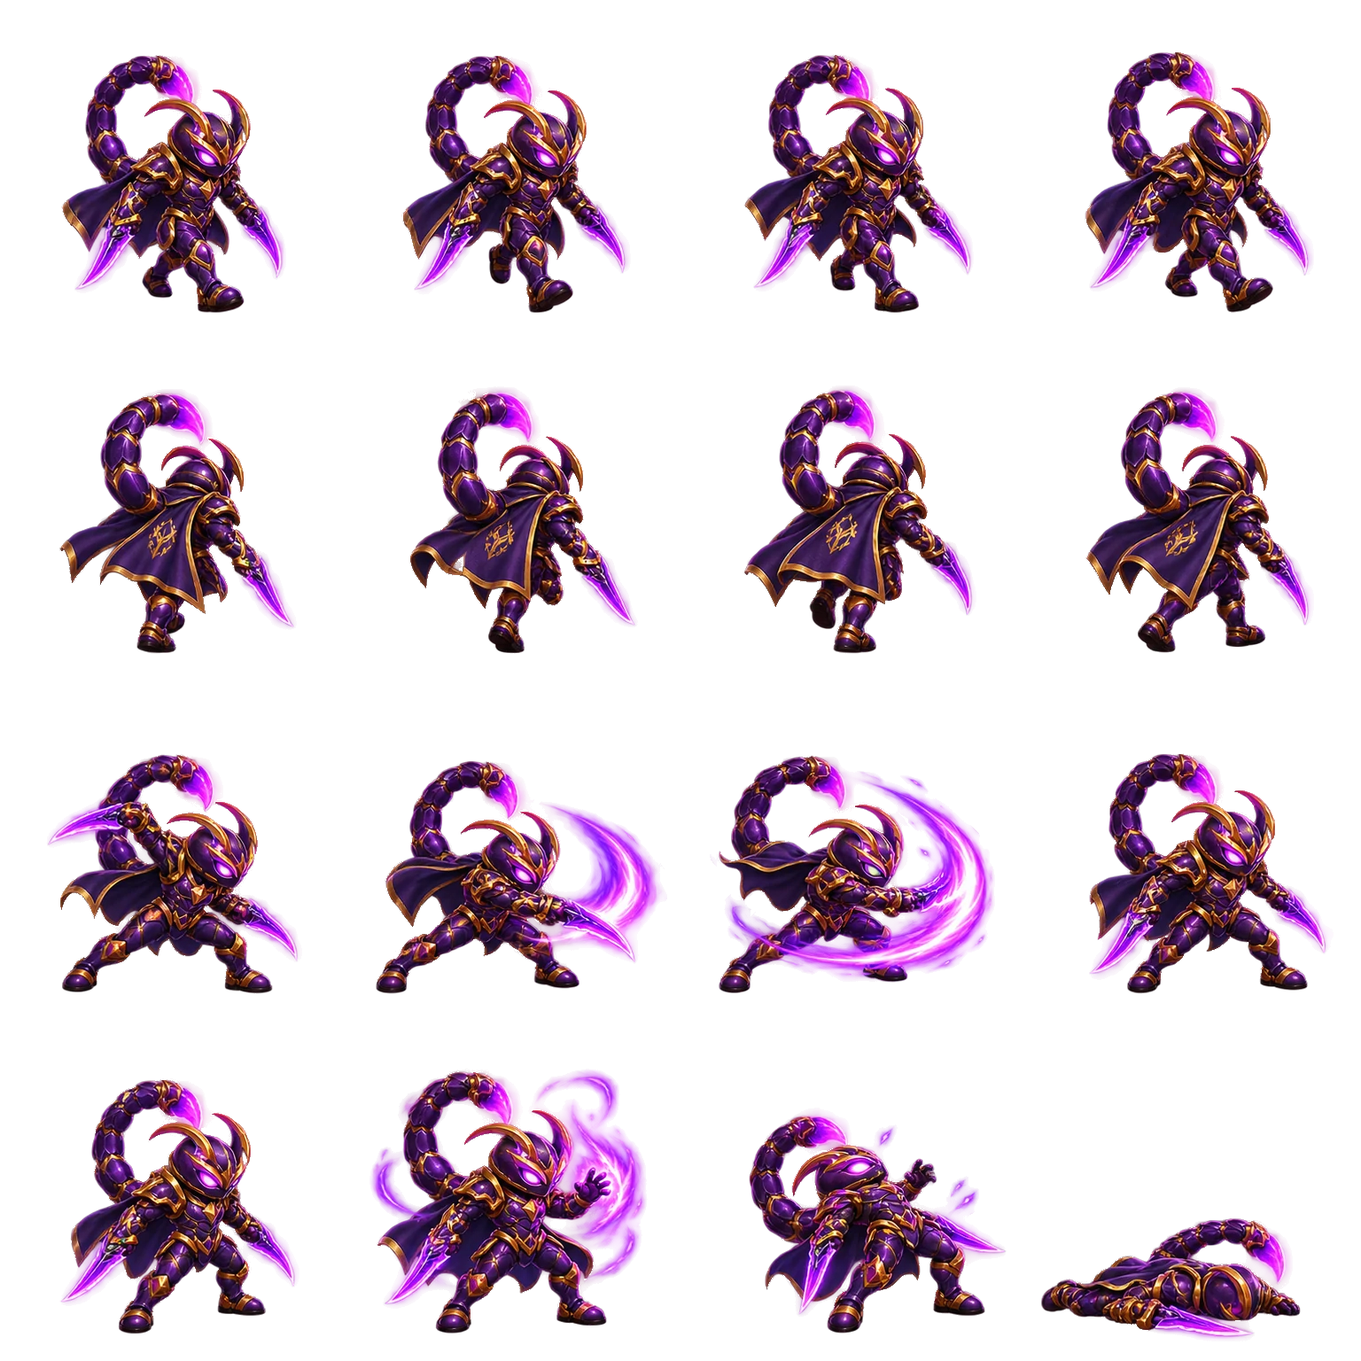
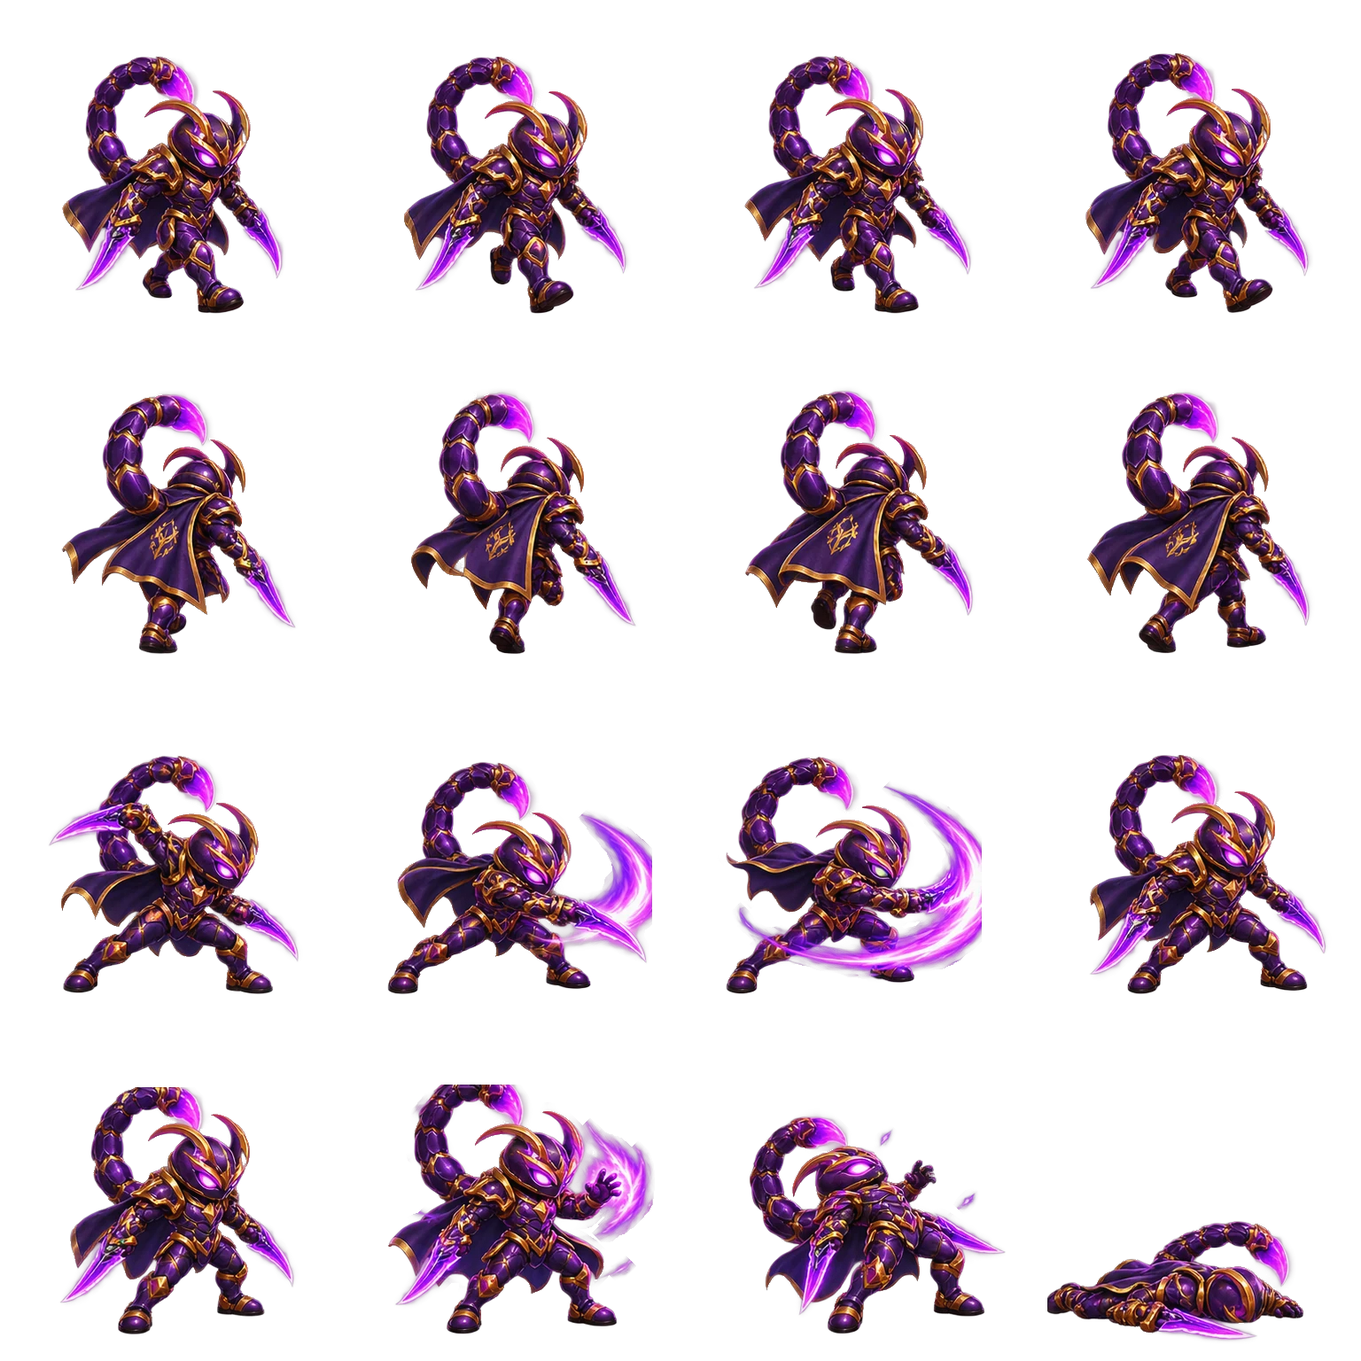
Make Dragonfly and Cricket playable: all four hero classes selectable
- Packed sheets web/heroes/sword-dragonfly.webp and sword-cricket.webp from the
  user's generated art; packer now cuts per source cell with body-centred anchors
  and optional manual trims (cricket frame 14)
- Dragonfly: ranged archer basic attack (340) and six wind/lightning arrow skills
- Cricket: six hammer/sound-wave skills, each cast shows its own painted skill pose
- Class frame mapping, save validation, roster text, tests and asset checks

Claude-Session: https://claude.ai/code/session_01ENEEn6QVRibkZji2H4JnwQ

diff --git a/web/skills.js b/web/skills.js
@@ -32,7 +32,24 @@ export const SCORPION_SKILLS=[
 {id:'d5',name:'ลูกพิษระเบิดสายฟ้า',level:40,form:'bolt',element:'lightning',mods:['force','pierce']},
 {id:'d6',name:'หางยักษ์ฟาดพสุธา',level:55,form:'field',element:'poison',mods:['wide','force']}
 ];
-function classSkills(s){if(s.hero==='demon-scorpion')return [...SCORPION_SKILLS,...SCHOOL.filter(r=>r.sect==='demon'&&Number(r.id.slice(1))>=7)];return s.hero==='sword-cockro'?[...COCKRO_SKILLS,...SCHOOL.filter(r=>r.sect==='sword'&&Number(r.id.slice(1))>=7)]:SCHOOL.filter(r=>r.sect===(s.hero.startsWith('sword')?'sword':'demon'));}
+// Dragonfly: ranged archer (wind / lightning). Cricket: hammer and sound waves (wind / lightning, gold).
+export const DRAGONFLY_SKILLS=[
+{id:'s1',name:'ศรแสงพุ่งทะลวง',level:1,form:'bolt',element:'lightning',mods:['pierce'],combat:{range:520,radius:0,mp:9,cd:2.6,power:2.1}},
+{id:'s2',name:'ศรพัดห้าดอก',level:5,form:'wave',element:'wind',mods:['wide'],combat:{range:420,radius:170,mp:14,cd:4.5,power:1.7}},
+{id:'s3',name:'พายุปีกแมลงปอ',level:12,form:'circle',element:'wind',mods:['wide'],combat:{range:190,radius:190,mp:20,cd:7,power:1.6}},
+{id:'s4',name:'ฝนศรดวงดาว',level:25,form:'field',element:'lightning',mods:['wide'],combat:{range:460,radius:190,mp:26,cd:10,power:.75}},
+{id:'s5',name:'ศรสายฟ้าเจาะฟ้า',level:40,form:'bolt',element:'lightning',mods:['pierce','force']},
+{id:'s6',name:'ปีกแสงพิพากษา',level:55,form:'wave',element:'lightning',mods:['wide','force']}
+];
+export const CRICKET_SKILLS=[
+{id:'s1',name:'ค้อนทุบแผ่นดินแยก',level:1,form:'wave',element:'wind',mods:['wide'],combat:{range:400,radius:150,mp:10,cd:3.4,power:2}},
+{id:'s2',name:'วงคลื่นเสียงจิ้งหรีด',level:5,form:'circle',element:'lightning',mods:['wide'],combat:{range:190,radius:190,mp:14,cd:5,power:1.8}},
+{id:'s3',name:'กระโดดกระแทกพสุธา',level:12,form:'dash',element:'wind',mods:['wide','force'],combat:{range:260,radius:70,mp:18,cd:7,power:2}},
+{id:'s4',name:'สนามคลื่นสั่นสะเทือน',level:25,form:'field',element:'lightning',mods:['wide'],combat:{range:380,radius:190,mp:26,cd:10,power:.8}},
+{id:'s5',name:'ค้อนพายุหมุน',level:40,form:'circle',element:'wind',mods:['wide','force']},
+{id:'s6',name:'โดมคลื่นเสียงทองคำ',level:55,form:'field',element:'lightning',mods:['wide','force'],combat:{range:200,radius:230,mp:40,cd:14,power:.9}}
+];
+function classSkills(s){if(s.hero==='sword-dragonfly')return [...DRAGONFLY_SKILLS,...SCHOOL.filter(r=>r.sect==='sword'&&Number(r.id.slice(1))>=7)];if(s.hero==='sword-cricket')return [...CRICKET_SKILLS,...SCHOOL.filter(r=>r.sect==='sword'&&Number(r.id.slice(1))>=7)];if(s.hero==='demon-scorpion')return [...SCORPION_SKILLS,...SCHOOL.filter(r=>r.sect==='demon'&&Number(r.id.slice(1))>=7)];return s.hero==='sword-cockro'?[...COCKRO_SKILLS,...SCHOOL.filter(r=>r.sect==='sword'&&Number(r.id.slice(1))>=7)]:SCHOOL.filter(r=>r.sect===(s.hero.startsWith('sword')?'sword':'demon'));}
 export function normalizeSkills(s,v={}){const sect=s.hero.startsWith('sword')?'sword':'demon';s.recipes=Array.isArray(v.recipes)?v.recipes.slice(0,10).filter(r=>r&&FORMS[r.form]&&ELEMENTS[r.element]&&Array.isArray(r.mods)&&r.mods.length<=2&&r.mods.every(m=>MODS[m]&&m!=='none')).map((r,i)=>({...r,id:'custom'+i,name:String(r.name||'วิชาไร้นาม').slice(0,32),level:r.mods.length>1?120:60})):[];const available=[...classSkills(s),...s.recipes].filter(r=>r.level<=s.level);const used=new Set();s.equipped=Array.isArray(v.equipped)?v.equipped.slice(0,3).map(id=>{if(used.has(id)||!available.some(r=>r.id===id))return null;used.add(id);return id;}):[];if(!s.equipped.some(Boolean))s.equipped=[available[0].id];s.materials={};for(const k of ['ink','core',...Object.keys(ELEMENTS)])s.materials[k]=Math.min(99999,Math.max(0,Math.floor(Number(v.materials?.[k])||0)));}
 export function knownSkills(s){return [...classSkills(s),...s.recipes];}
 export function craft(s,r){if(s.level<60)return 'ต้องถึงเลเวล 60';if(s.recipes.length>=10)return 'บันทึกได้สูงสุด 10 วิชา';if(!r||!FORMS[r.form]||!ELEMENTS[r.element]||!Array.isArray(r.mods)||new Set(r.mods).size!==r.mods.length||r.mods.some(m=>!MODS[m]||m==='none'))return 'สูตรไม่ถูกต้อง';if(r.mods.length>(s.level>=120?2:1))return 'สองคุณสมบัติต้องเลเวล 120';const advanced=r.mods.length===2,cost=advanced?12000:3000;if(s.gold<cost||s.materials.ink<1||s.materials[r.element]<3||(advanced&&s.materials.core<2))return 'เงินหรือวัตถุดิบไม่พอ';s.gold-=cost;s.materials.ink--;s.materials[r.element]-=3;if(advanced)s.materials.core-=2;s.recipes.push({id:'custom'+s.recipes.length,name:String(r.name||'วิชาไร้นาม').trim().slice(0,32)||'วิชาไร้นาม',form:r.form,element:r.element,mods:r.mods,level:advanced?120:60});return null;}

diff --git a/web/hero-animation.js b/web/hero-animation.js
@@ -3,7 +3,19 @@ export const HERO_IDS=['sword-male','sword-female','demon-male','demon-female'];
 export const WALK_DISTANCE=112;
 export const CELL=256;
 // New hero classes packed by tools/pack-class-sheet.py (same frame order as the Cockro combat sheet).
-export const CLASS_SHEETS=['demon-scorpion'];
+export const CLASS_SHEETS=['demon-scorpion','sword-dragonfly','sword-cricket'];
+// The cricket sheet was painted with one pose per skill: row 3 and row 4 hold skill poses, idle and hurt.
+const CLASS_FRAMES={'sword-cricket':{idle:14,attack:[14,12,8,14],hurt:15,dead:15,skill:{s1:8,s2:9,s3:10,s4:11,s5:12,s6:13},fallback:13,deadTilt:true}};
+export function classFrame(hero,actor={}){
+ const m=CLASS_FRAMES[hero];if(!m)return cockroFrame(actor);
+ const t=Math.max(0,actor.animTime||0),u=t/(actor.animDuration||.58);
+ if(actor.dead||actor.anim==='dead')return m.dead;
+ if(actor.anim==='hurt')return m.hurt;
+ if(actor.anim==='skill')return m.skill[actor.castId]??m.fallback;
+ if(actor.anim==='attack')return m.attack[u<.25?0:u<.5?1:u<.76?2:3];
+ if(actor.anim==='walk')return (actor.back?4:0)+Math.floor(((actor.walkDistance||0)%112)/28);
+ return m.idle;
+}
 export function heroFrame(actor={}){
  const back=!!actor.back,flip=(actor.face||1)<0;
  const t=Math.max(0,Number.isFinite(actor.animTime)?actor.animTime:0);
@@ -31,9 +43,10 @@ export function drawHero(ctx,images,hero,actor,x,y,size){
  if(CLASS_SHEETS.includes(hero)){
   // Normalised 4x4 class sheets: every frame is foot-anchored at (192,352) inside a 384px cell.
   const im=images.get(`heroes/${hero}.webp`);if(!im||!Number.isFinite(size)||size<=0)return;
-  const frame=cockroFrame(actor),c=im.width/4,k=c/384,unit=size/314;
+  const frame=classFrame(hero,actor),c=im.width/4,unit=size/314;
   ctx.save();ctx.translate(x,y);ctx.scale((actor.face||1)<0?-1:1,1);
-  ctx.drawImage(im,(frame%4)*c,Math.floor(frame/4)*c,c,c,-192*unit,-352*unit,384*unit,384*unit);
+  if((actor.dead||actor.anim==='dead')&&CLASS_FRAMES[hero]?.deadTilt){ctx.translate(0,-18*unit);ctx.rotate(-1.25);ctx.globalAlpha*=.92;}
+  ctx.drawImage(im,(frame%4)*c,Math.floor(frame/4)*c,c,c,-c/2*unit,-(c-32)*unit,c*unit,c*unit);
   ctx.restore();return {sheet:hero,frame};
  }
  if(!HERO_IDS.includes(hero)||!Number.isFinite(size)||size<=0)return;

diff --git a/web/core.js b/web/core.js
@@ -10,7 +10,7 @@ export function buyPotion(s){if(s.gold<50)return false;s.gold-=50;s.potions++;re
 export function upgradeCost(s){return 100*(s.upgrade+1)**2;}
 export function upgrade(s){const cost=upgradeCost(s);if(s.upgrade>=20||s.gold<cost)return false;s.gold-=cost;s.upgrade++;return true;}
 export function unlocked(s,z){return z===0;}
-export function validSave(v){if(!v||v.version!==VERSION||!['sword-male','sword-female','demon-male','demon-female','sword-cockro','demon-scorpion'].includes(v.hero))return null;const s=fresh(v.hero);for(const [k,max]of Object.entries({level:210,xp:1e8,gold:1e10,potions:99999,stones:1e7,upgrade:20,zone:9,kills:1e9})){if(!Number.isFinite(v[k]))return null;s[k]=Math.max(k==='level'?1:0,Math.min(max,Math.floor(v[k])));}s.seen=Array.isArray(v.seen)?[...new Set(v.seen.filter(isKnownMonster))]:[];s.bosses=Array.isArray(v.bosses)?[...new Set(v.bosses.filter(isKnownBoss))]:[];s.sound=v.sound!==false;s.quality=['auto','low'].includes(v.quality)?v.quality:'auto';if(!unlocked(s,s.zone))s.zone=0;normalizeSkills(s,v);normalizeProgress(s,v);return s;}
+export function validSave(v){if(!v||v.version!==VERSION||!['sword-male','sword-female','demon-male','demon-female','sword-cockro','demon-scorpion','sword-dragonfly','sword-cricket'].includes(v.hero))return null;const s=fresh(v.hero);for(const [k,max]of Object.entries({level:210,xp:1e8,gold:1e10,potions:99999,stones:1e7,upgrade:20,zone:9,kills:1e9})){if(!Number.isFinite(v[k]))return null;s[k]=Math.max(k==='level'?1:0,Math.min(max,Math.floor(v[k])));}s.seen=Array.isArray(v.seen)?[...new Set(v.seen.filter(isKnownMonster))]:[];s.bosses=Array.isArray(v.bosses)?[...new Set(v.bosses.filter(isKnownBoss))]:[];s.sound=v.sound!==false;s.quality=['auto','low'].includes(v.quality)?v.quality:'auto';if(!unlocked(s,s.zone))s.zone=0;normalizeSkills(s,v);normalizeProgress(s,v);return s;}
 export function inCone(px,py,x,y,angle,range,arc){const dx=px-x,dy=py-y;return Math.hypot(dx,dy)<=range&&Math.abs(Math.atan2(Math.sin(Math.atan2(dy,dx)-angle),Math.cos(Math.atan2(dy,dx)-angle)))<=arc/2;}
 
 

diff --git a/tests/hero-classes.test.js b/tests/hero-classes.test.js
@@ -2,7 +2,7 @@ import test from 'node:test';
 import assert from 'node:assert/strict';
 import fs from 'node:fs';
 import {fresh,validSave} from '../web/core.js';
-import {knownSkills,compileSkill,SCORPION_SKILLS} from '../web/skills.js';
+import {knownSkills,compileSkill,SCORPION_SKILLS,DRAGONFLY_SKILLS,CRICKET_SKILLS} from '../web/skills.js';
 import {drawHero,CLASS_SHEETS} from '../web/hero-animation.js';
 test('Scorpion Man is a full class: six poison skills unlocked by level, save round trip',()=>{
  const s=fresh('demon-scorpion');assert.equal(validSave(JSON.parse(JSON.stringify(s))).hero,'demon-scorpion');
@@ -15,5 +15,10 @@ test('class sheet exists and draws one foot-anchored frame per state',()=>{
  for(const id of CLASS_SHEETS){assert(fs.existsSync(new URL(`../web/heroes/${id}.webp`,import.meta.url)));
   const calls=[];const ctx=new Proxy({},{get:(_,k)=>k==='drawImage'?(...a)=>calls.push(a):()=>{}});const im={width:1536,height:1536};
   const frames=new Set();for(const actor of [{anim:'idle'},{anim:'walk',walkDistance:30},{anim:'walk',back:true},{anim:'attack',animTime:.3},{anim:'skill'},{anim:'hurt'},{anim:'dead'}]){const r=drawHero(ctx,new Map([[`heroes/${id}.webp`,im]]),id,actor,0,0,110);frames.add(r.frame);}
-  assert.equal(frames.size,7);assert.equal(calls.length,7);}
+  assert(frames.size>=6,id);assert.equal(calls.length,7);}
+});
+test('Dragonfly and Cricket have six skills each and a skill-specific cricket pose',async()=>{
+ for(const [id,list] of [['sword-dragonfly',DRAGONFLY_SKILLS],['sword-cricket',CRICKET_SKILLS]]){const s=fresh(id);assert.equal(validSave(JSON.parse(JSON.stringify(s))).hero,id);assert.deepEqual(knownSkills(s).slice(0,6).map(r=>r.name),list.map(r=>r.name));for(const r of list)assert(compileSkill(r),r.name);}
+ const {classFrame}=await import('../web/hero-animation.js');
+ assert.equal(classFrame('sword-cricket',{anim:'skill',castId:'s6'}),13);assert.equal(classFrame('sword-cricket',{anim:'idle'}),14);assert.equal(classFrame('sword-dragonfly',{anim:'idle'}),12);
 });

diff --git a/tests/hero-ui.test.js b/tests/hero-ui.test.js
@@ -2,6 +2,6 @@ import test from 'node:test';
 import assert from 'node:assert/strict';
 import {HERO_CLASSES,heroIdentity,uiArt} from '../web/hero-ui.js';
 import {fresh,validSave} from '../web/core.js';
-test('four requested heroes and only finished combat prototype selectable',()=>{assert.deepEqual(HERO_CLASSES.map(h=>h.name),['แมงสาบแมน','แมงป่องแมน','แมลงปอเกิล','จิ้งหรีดแมน']);assert.deepEqual(HERO_CLASSES.filter(h=>h.playable).map(h=>h.id),['sword-cockro','demon-scorpion']);});
-test('legacy progression survives and has a readable identity',()=>{for(const id of ['sword-male','demon-female','sword-cockro','demon-scorpion']){const save=fresh(id);save.gold=12345;const restored=validSave(save);assert.equal(restored.gold,12345);assert.equal(restored.hero,id);assert.ok(heroIdentity(id).name);}});
+test('four requested heroes and only finished combat prototype selectable',()=>{assert.deepEqual(HERO_CLASSES.map(h=>h.name),['แมงสาบแมน','แมงป่องแมน','แมลงปอเกิล','จิ้งหรีดแมน']);assert.deepEqual(HERO_CLASSES.filter(h=>h.playable).map(h=>h.id),['sword-cockro','demon-scorpion','sword-dragonfly','sword-cricket']);});
+test('legacy progression survives and has a readable identity',()=>{for(const id of ['sword-male','demon-female','sword-cockro','demon-scorpion','sword-dragonfly','sword-cricket']){const save=fresh(id);save.gold=12345;const restored=validSave(save);assert.equal(restored.gold,12345);assert.equal(restored.hero,id);assert.ok(heroIdentity(id).name);}});
 test('atlas indices are bounded and decorative art is hidden from screen readers',()=>{for(let i=0;i<16;i++)assert.match(uiArt(i),/aria-hidden="true"/);assert.throws(()=>uiArt(16),RangeError);});

diff --git a/web/hero-ui.js b/web/hero-ui.js
@@ -2,8 +2,8 @@
 export const HERO_CLASSES=Object.freeze([
  {id:'sword-cockro',name:'แมงสาบแมน',icon:12,color:'#ee654f',playable:true,description:'ฮีโร่ดาบพลังงาน • แนวหน้าปกป้องเมือง'},
  {id:'demon-scorpion',name:'แมงป่องแมน',icon:13,color:'#b78aff',playable:true,description:'นักฆ่าพิษ • มีดคู่และหางแมงป่อง สกิลพิษวงกว้าง'},
- {id:'dragonfly',name:'แมลงปอเกิล',icon:14,color:'#5eddeb',playable:false,description:'พลังแมลงปอ • แนวคิดอาชีพใหม่'},
- {id:'cricket',name:'จิ้งหรีดแมน',icon:15,color:'#a2df68',playable:false,description:'พลังจิ้งหรีด • แนวคิดอาชีพใหม่'}
+ {id:'sword-dragonfly',name:'แมลงปอเกิล',icon:14,color:'#5eddeb',playable:true,description:'นักธนูปีกแสง • โจมตีระยะไกล ศรลมและสายฟ้า'},
+ {id:'sword-cricket',name:'จิ้งหรีดแมน',icon:15,color:'#a2df68',playable:true,description:'นักรบค้อนคลื่นเสียง • ทนทาน ตีวงกว้าง'}
 ]);
 export function heroIdentity(id){return HERO_CLASSES.find(h=>h.id===id)||{name:'ฮีโร่รุ่นเดิม',icon:5};}
 export function uiArt(index,extra=''){if(!Number.isInteger(index)||index<0||index>15)throw new RangeError('Invalid UI tile');return `<span class="ui-art ${extra}" aria-hidden="true" style="background-position:${index%4/3*100}% ${Math.floor(index/4)/3*100}%"></span>`;}

diff --git a/tools/pack-class-sheet.py b/tools/pack-class-sheet.py
@@ -1,9 +1,10 @@
 """Normalize a generated 4x4 hero sheet (walk front, walk back, attack x4, idle/skill/hurt/dead)
 into web/heroes/<id>.webp: 4x4 cells of CELLxCELL, every frame foot-anchored at (CELL/2, FOOT).
 
-Usage: python3 tools/pack-class-sheet.py <source.png> <class-id>
-Frames are found by connected components (alpha) assigned to the 4x4 grid by centroid, so glow
-and slash arcs that spill over a source cell edge stay with their own frame.
+Usage: python3 tools/pack-class-sheet.py <source.png> <class-id> [cell=384] [frame:L|R|T|Bpx ...]
+Packed: demon-scorpion, sword-dragonfly (defaults); sword-cricket with 14:L95
+Frames are cut per source grid cell; connected components that only spill in from a neighbouring
+cell are dropped, and the largest component (the body) sets the foot anchor.
 """
 import sys, json
 from pathlib import Path
@@ -11,8 +12,14 @@ import numpy as np
 from PIL import Image
 from scipy import ndimage
 
-CELL, FOOT = 384, 352
 src, cid = sys.argv[1], sys.argv[2]
+CELL = int(sys.argv[3]) if len(sys.argv) > 3 and sys.argv[3].isdigit() else 384
+# Manual trims for spill that touches the body, e.g. "14:L60" clears the left 60px of source cell 14.
+TRIMS = {}
+for arg in sys.argv[3:]:
+    if ':' in arg:
+        f, spec = arg.split(':'); TRIMS.setdefault(int(f), []).append((spec[0], int(spec[1:])))
+FOOT = CELL - 32  # the game anchors feet 32px above the bottom of every cell
 im = np.array(Image.open(src).convert('RGBA')).astype(np.float32)
 H, W = im.shape[:2]
 a = im[..., 3]
@@ -23,43 +30,50 @@ fringe = (r > g + 40) & (r > b + 30) & (a < 150)
 a[fringe] = 0
 im[..., 3] = a
 
-mask = a > 48
-labels, n = ndimage.label(mask, structure=np.ones((3, 3)))
-sizes = ndimage.sum(mask, labels, range(1, n + 1))
-centers = ndimage.center_of_mass(mask, labels, range(1, n + 1))
+mask = a > 200  # solid paint only, so soft glows do not bridge neighbouring frames
 cw, ch = W / 4, H / 4
-frames = {f: [] for f in range(16)}
-for k, (size, (cy, cx)) in enumerate(zip(sizes, centers), start=1):
-    if size < 40:
-        continue
-    f = min(3, int(cy // ch)) * 4 + min(3, int(cx // cw))
-    frames[f].append(k)
-
 out = Image.new('RGBA', (CELL * 4, CELL * 4), (0, 0, 0, 0))
 report = {}
 full = Image.fromarray(np.clip(im, 0, 255).astype(np.uint8), 'RGBA')
 for f in range(16):
-    ids = frames[f]
-    if not ids:
+    # Work inside the source grid cell; pieces that spill in from a neighbour sit on the cell edge
+    # (their centre is near the border) and are dropped, the body and its own effects are kept.
+    cx0, cy0 = int(round(f % 4 * cw)), int(round(f // 4 * ch))
+    cx1, cy1 = int(round((f % 4 + 1) * cw)), int(round((f // 4 + 1) * ch))
+    for side, px in TRIMS.get(f, []):
+        sl = {'L': np.s_[cy0:cy1, cx0:cx0 + px], 'R': np.s_[cy0:cy1, cx1 - px:cx1],
+              'T': np.s_[cy0:cy0 + px, cx0:cx1], 'B': np.s_[cy1 - px:cy1, cx0:cx1]}[side]
+        a[sl] = 0; mask[sl] = False
+    m = mask[cy0:cy1, cx0:cx1]
+    labels, n = ndimage.label(m, structure=np.ones((3, 3)))
+    if n == 0:
         raise SystemExit(f'frame {f} is empty')
-    sel = np.isin(labels, ids)
-    # Soft glow pixels around the selected components belong to the frame too.
-    sel = ndimage.binary_dilation(sel, iterations=10) & (a > 0)
+    idx = range(1, n + 1)
+    sizes = np.array(ndimage.sum(m, labels, idx))
+    cents = ndimage.center_of_mass(m, labels, idx)
+    hw, hh = cx1 - cx0, cy1 - cy0
+    # Body: the largest component centred in the middle 60% of the cell (an effect slice spilling
+    # in from a neighbour can be bigger than the character but never sits in the middle).
+    central = [k for k, (yy, xx) in zip(idx, cents) if .2 * hw < xx < .8 * hw]
+    body = max(central or list(idx), key=lambda k: sizes[k - 1])
+    keep = [k for k, sz, (yy, xx) in zip(idx, sizes, cents)
+            if k == body or (sz >= 40 and .25 * hw < xx < .75 * hw and 30 < yy < hh - 30)
+            or (sz >= 40 and 40 < xx < hw - 40 and 30 < yy < hh - 30 and sz < 2500)]
+    sel = np.isin(labels, keep)
+    sel = ndimage.binary_dilation(sel, iterations=10) & (a[cy0:cy1, cx0:cx1] > 0)
     ys, xs = np.nonzero(sel)
     x0, x1, y0, y1 = xs.min(), xs.max() + 1, ys.min(), ys.max() + 1
-    # Foot line: lowest row of the largest (body) component; centre from the body, not the effect.
-    body = max(ids, key=lambda k: sizes[k - 1])
     by, bx = np.nonzero(labels == body)
     foot_y = by.max() if f != 15 else by.max() - 6
     centre_x = int(np.median(bx))
-    crop = full.crop((x0, y0, x1, y1))
-    cm = Image.fromarray((sel[y0:y1, x0:x1] * 255).astype(np.uint8))
-    crop.putalpha(Image.fromarray(np.minimum(np.array(crop.getchannel('A')), np.array(cm))))
-    ox = (f % 4) * CELL + CELL // 2 - (centre_x - x0)
-    oy = (f // 4) * CELL + FOOT - (foot_y - y0)
-    # Clip to the destination cell so frames never bleed into neighbours.
+    crop = full.crop((cx0 + x0, cy0 + y0, cx0 + x1, cy0 + y1))
+    cm = np.array(crop.getchannel('A'))
+    cm = np.where(sel[y0:y1, x0:x1], cm, 0).astype(np.uint8)
+    crop.putalpha(Image.fromarray(cm))
+    ox = CELL // 2 - (centre_x - x0)
+    oy = FOOT - (foot_y - y0)
     cell = Image.new('RGBA', (CELL, CELL), (0, 0, 0, 0))
-    cell.alpha_composite(crop, (ox - (f % 4) * CELL, oy - (f // 4) * CELL)) if ox - (f % 4) * CELL >= 0 and oy - (f // 4) * CELL >= 0 else cell.paste(crop, (ox - (f % 4) * CELL, oy - (f // 4) * CELL), crop)
+    cell.paste(crop, (ox, oy), crop)
     out.alpha_composite(cell, ((f % 4) * CELL, (f // 4) * CELL))
     report[f] = {'body_h': int(by.max() - by.min()), 'w': int(x1 - x0)}
 

diff --git a/tools/validate_assets.py b/tools/validate_assets.py
@@ -2,7 +2,7 @@
 from pathlib import Path
 import struct
 web=Path(__file__).resolve().parents[1]/'web'
-for name in ['maps/aurora-outpost.webp','maps/biolume-tile.webp','sprites/alien-forest.webp','heroes/cockro-combat-v2.webp','ui/hero-menu-atlas.webp','heroes/demon-scorpion.webp']:
+for name in ['maps/aurora-outpost.webp','maps/biolume-tile.webp','sprites/alien-forest.webp','heroes/cockro-combat-v2.webp','ui/hero-menu-atlas.webp','heroes/demon-scorpion.webp','heroes/sword-dragonfly.webp','heroes/sword-cricket.webp']:
  data=(web/name).read_bytes()
  assert data[:4]==b'RIFF' and data[8:12]==b'WEBP',name
  assert struct.unpack('<I',data[4:8])[0]+8==len(data),name
